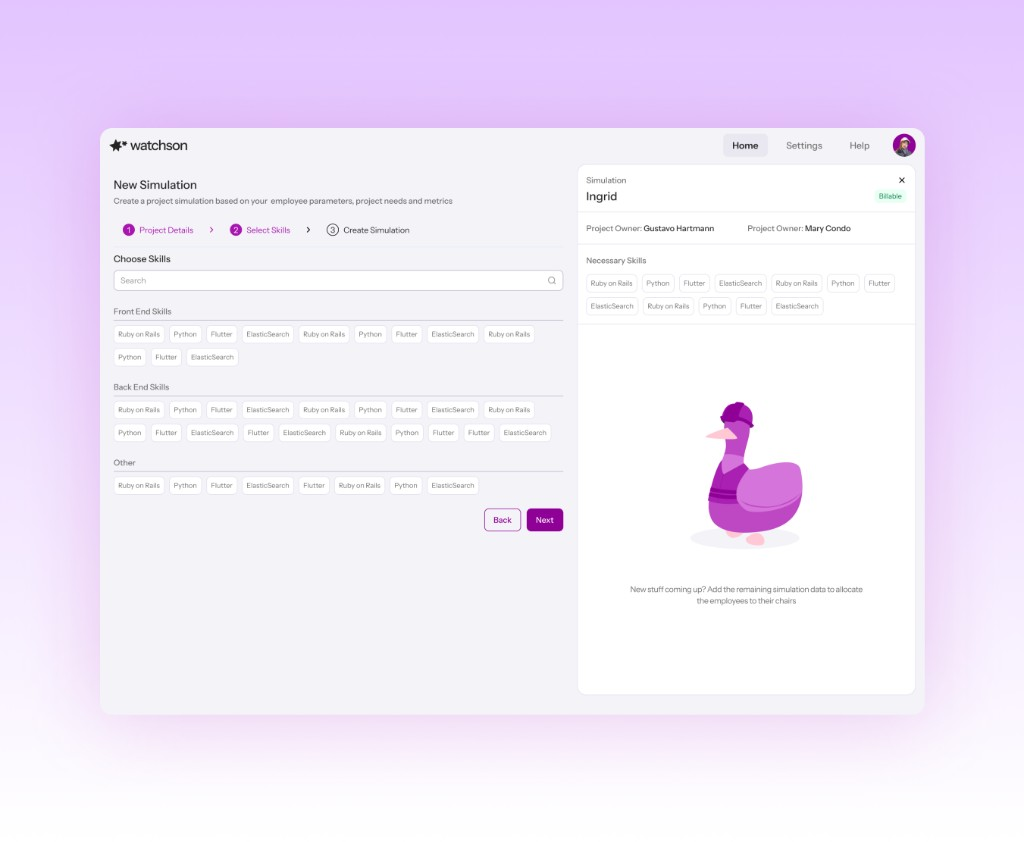
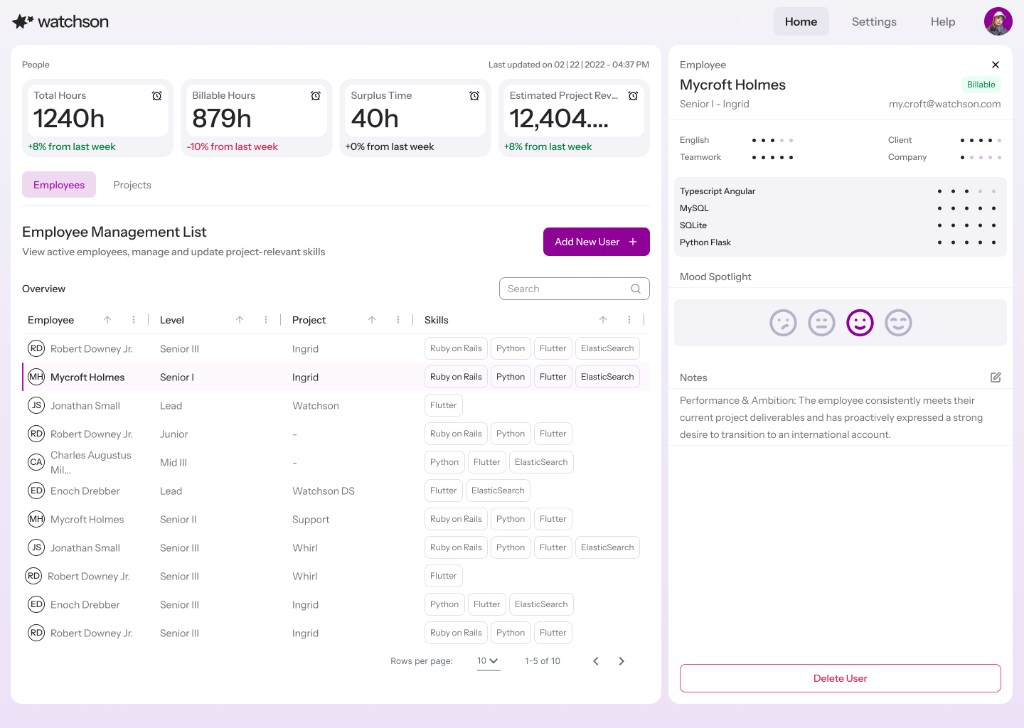
Watchson changes

diff --git a/src/pages/ProjectPage.tsx b/src/pages/ProjectPage.tsx
@@ -1,3 +1,4 @@
+import { useState, useEffect, useCallback } from "react";
 import { Link, Navigate, useParams } from "react-router-dom";
 import Navbar from "../components/Navbar";
 import { getNextProject, getProjectBySlug, type CaseStudySection, type CardColumn } from "../data/projects";
@@ -45,6 +46,52 @@ function PlaceholderImage({ label, aspect = "wide" }: PlaceholderProps) {
   );
 }
 
+// ─── Lightbox ────────────────────────────────────────────────────────────────
+
+function Lightbox({ src, alt, onClose }: { src: string; alt: string; onClose: () => void }) {
+  useEffect(() => {
+    const onKey = (e: KeyboardEvent) => { if (e.key === "Escape") onClose(); };
+    window.addEventListener("keydown", onKey);
+    return () => window.removeEventListener("keydown", onKey);
+  }, [onClose]);
+
+  return (
+    <div
+      className="fixed inset-0 z-50 flex items-center justify-center bg-black/80 backdrop-blur-sm p-4 md:p-10"
+      onClick={onClose}
+    >
+      <button
+        onClick={onClose}
+        className="absolute top-5 right-6 text-white/70 hover:text-white text-[11px] font-semibold uppercase tracking-[0.16em] transition-colors"
+        aria-label="Close"
+      >
+        Close ✕
+      </button>
+      <img
+        src={src}
+        alt={alt}
+        className="max-w-full max-h-full object-contain shadow-2xl"
+        onClick={(e) => e.stopPropagation()}
+      />
+    </div>
+  );
+}
+
+// ─── Clickable image ──────────────────────────────────────────────────────────
+
+function ZoomableImage({ src, alt, onOpen }: { src: string; alt: string; onOpen: (src: string, alt: string) => void }) {
+  return (
+    <div className="relative group cursor-zoom-in" onClick={() => onOpen(src, alt)}>
+      <img src={src} alt={alt} className="w-full h-auto object-cover" />
+      <div className="absolute inset-0 bg-black/0 group-hover:bg-black/10 transition-colors flex items-center justify-center">
+        <span className="opacity-0 group-hover:opacity-100 transition-opacity text-white text-[10px] font-semibold uppercase tracking-[0.16em] bg-black/50 px-3 py-1.5">
+          Expand
+        </span>
+      </div>
+    </div>
+  );
+}
+
 // ─── Impact / Challenge card grid ────────────────────────────────────────────
 
 function CardGrid({ columns }: { columns: CardColumn[] }) {
@@ -84,9 +131,10 @@ function CardGrid({ columns }: { columns: CardColumn[] }) {
 interface SectionBlockProps {
   section: CaseStudySection;
   index: number;
+  onOpenImage: (src: string, alt: string) => void;
 }
 
-function SectionBlock({ section, index }: SectionBlockProps) {
+function SectionBlock({ section, index, onOpenImage }: SectionBlockProps) {
   return (
     <div className="py-12 border-t border-[#e4e8f0]">
       <div className="flex flex-col lg:grid lg:grid-cols-[200px_1fr] lg:gap-16">
@@ -112,10 +160,10 @@ function SectionBlock({ section, index }: SectionBlockProps) {
 
           {!section.cardColumns && section.imageLayout === "single" && (
             section.image ? (
-              <img
+              <ZoomableImage
                 src={section.image}
                 alt={section.imageMeta ?? section.title}
-                className="w-full h-auto object-cover"
+                onOpen={onOpenImage}
               />
             ) : (
               <PlaceholderImage label={section.imageMeta} aspect="wide" />
@@ -125,15 +173,23 @@ function SectionBlock({ section, index }: SectionBlockProps) {
           {!section.cardColumns && section.imageLayout === "double" && (
             <div className="grid grid-cols-1 sm:grid-cols-2 gap-5">
               {section.image ? (
-                <img
+                <ZoomableImage
                   src={section.image}
                   alt={section.imageMeta ?? section.title}
-                  className="w-full h-auto object-cover"
+                  onOpen={onOpenImage}
                 />
               ) : (
                 <PlaceholderImage label={section.imageMeta} aspect="wide" />
               )}
-              <PlaceholderImage label={section.imageMeta} aspect="wide" />
+              {section.image2 ? (
+                <ZoomableImage
+                  src={section.image2}
+                  alt={section.imageMeta ?? section.title}
+                  onOpen={onOpenImage}
+                />
+              ) : (
+                <PlaceholderImage label={section.imageMeta} aspect="wide" />
+              )}
             </div>
           )}
         </div>
@@ -146,6 +202,10 @@ function SectionBlock({ section, index }: SectionBlockProps) {
 
 export default function ProjectPage() {
   const { slug } = useParams<{ slug: string }>();
+  const [lightbox, setLightbox] = useState<{ src: string; alt: string } | null>(null);
+  const openImage = useCallback((src: string, alt: string) => setLightbox({ src, alt }), []);
+  const closeImage = useCallback(() => setLightbox(null), []);
+
   if (!slug) {
     return <Navigate to="/" replace />;
   }
@@ -160,6 +220,7 @@ export default function ProjectPage() {
 
   return (
     <div className="min-h-screen bg-[#f9fbff]">
+      {lightbox && <Lightbox src={lightbox.src} alt={lightbox.alt} onClose={closeImage} />}
       <div className="max-w-[1280px] mx-auto px-10 md:px-16 pb-24">
         <Navbar />
 
@@ -293,7 +354,7 @@ export default function ProjectPage() {
                     </span>
                   </div>
                   {project.sections.map((section, i) => (
-                    <SectionBlock key={section.title} section={section} index={i} />
+                    <SectionBlock key={section.title} section={section} index={i} onOpenImage={openImage} />
                   ))}
                 </div>
               )}

diff --git a/src/data/projects.ts b/src/data/projects.ts
@@ -12,6 +12,7 @@ export interface CaseStudySection {
   imageLayout?: "single" | "double";
   imageMeta?: string; // short descriptor shown inside placeholder
   image?: string; // real image path; when set, rendered instead of placeholder
+  image2?: string; // second image for double layout
   cardColumns?: CardColumn[]; // when set, renders a card grid instead of an image
 }
 
@@ -257,9 +258,9 @@ export const projects: Project[] = [
       {
         title: "Building Your Dream Team",
         body: "The main feature for team leaders was the simulation. You would pick a client project, see who was available, filter by skills and desire to work on that specific type of project, and assemble your team. Once built, you could run a simulation to see how well the team's skills matched what the project actually required. The radar chart made skill gaps visible at a glance, so there was no guessing about whether a team could realistically deliver.",
-        imageLayout: "double",
+        imageLayout: "single",
         imageMeta: "Team simulation — employee overview and skill radar",
-        image: "/watchson/simulation-1.png",
+        image: "/watchson/dream-team.png",
       },
       {
         title: "Player Scores & Skill Profiles",
